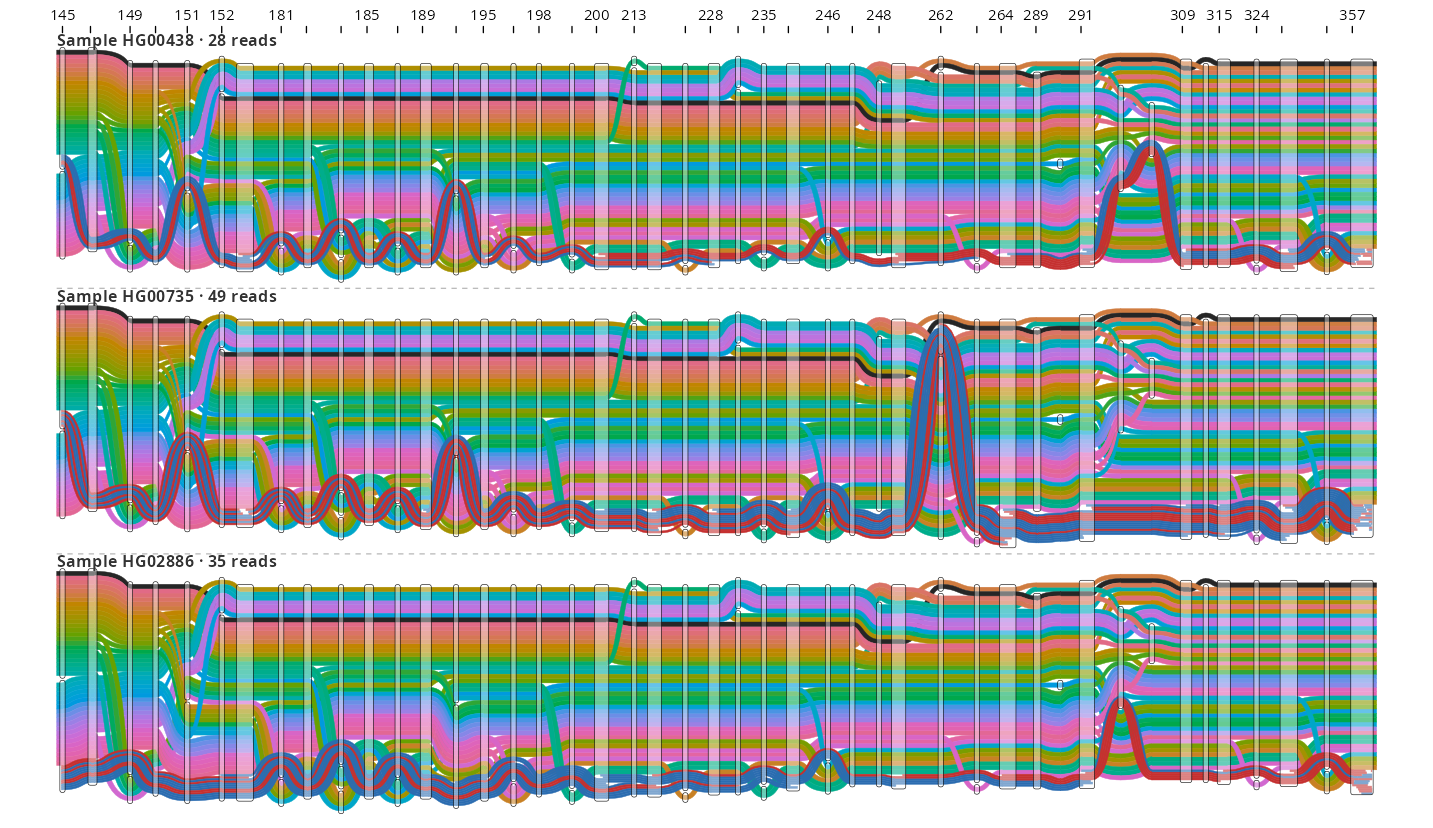
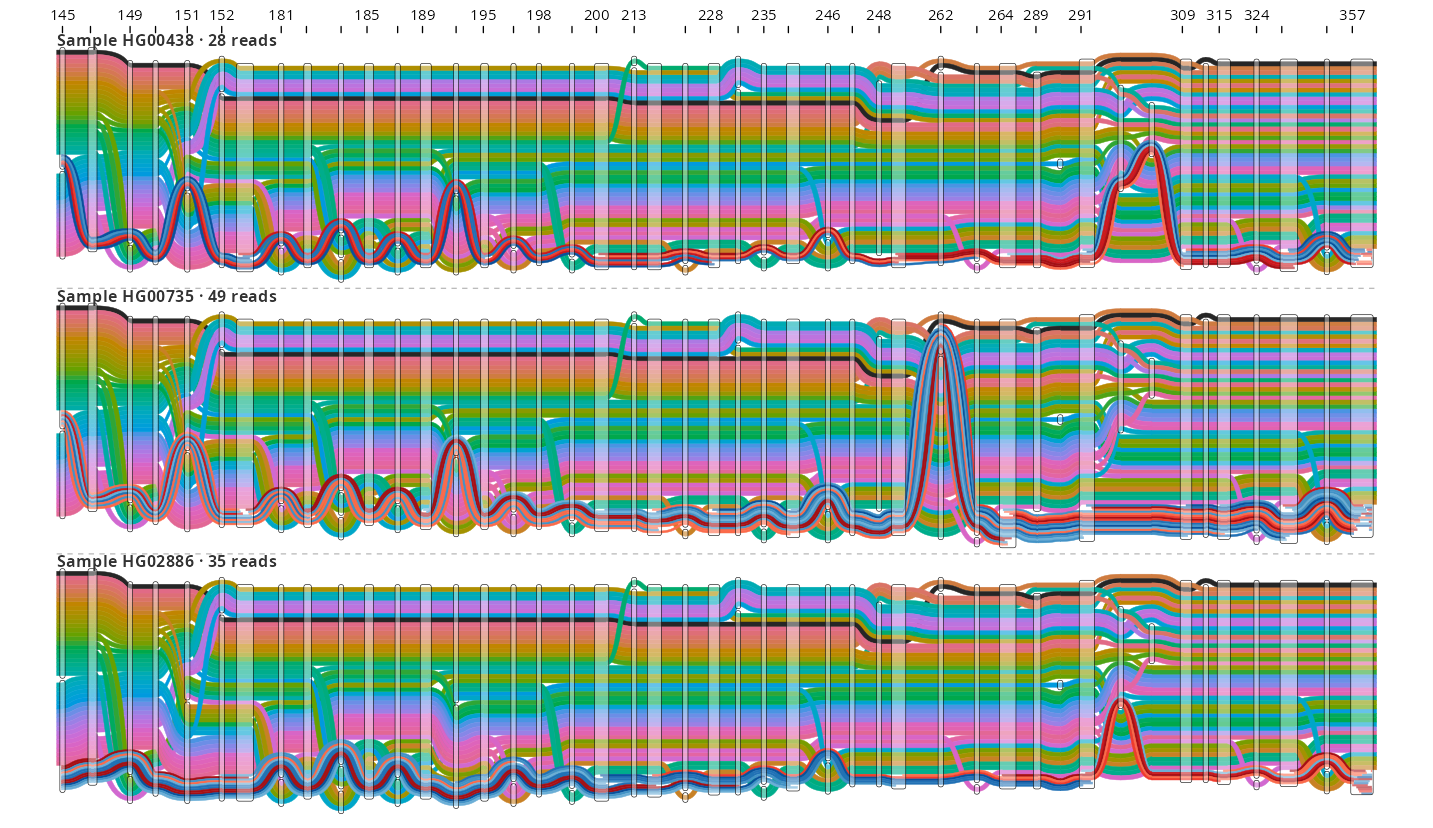
Bundle graph-walks 9.0.0 and tubemap-core 2.1.0: reads take tubemap-core's readColor, forward in reds and reverse in blues as JBrowse colours strands, shaded by read, in place of one hand-picked red and blue
@jbrowse/graph-walks 8.0.2 -> 9.0.0
@jbrowse/tubemap-core 2.0.1 -> 2.1.0

The layout returns each read's colour in its tracks table, so the bundle is
its one source. The three README figures with reads are redrawn on the
laptop; the hosted walk-file figures draw the same under 9.0.0 as under 8.0.2.

diff --git a/inst/js/tubemap-core.js b/inst/js/tubemap-core.js
@@ -1,5 +1,5 @@
 /*
- * @jbrowse/tubemap-core 2.0.1, bundled by tools/bridge.js
+ * @jbrowse/tubemap-core 2.1.0, bundled by tools/bridge.js
  *
  * MIT License
  *
@@ -161,7 +161,7 @@
     };
   }
 
-  // node_modules/.pnpm/@jbrowse+graph-walks@8.0.2/node_modules/@jbrowse/graph-walks/esm/util.js
+  // node_modules/.pnpm/@jbrowse+graph-walks@9.0.0/node_modules/@jbrowse/graph-walks/esm/util.js
   var RegionTooLargeError = class extends Error {
     constructor(message, limit, windowBp, fitsBp, overBytes) {
       super(message);
@@ -201,7 +201,7 @@
     return mb >= 1 ? `${mb.toLocaleString("en-US")}Mbp` : bp >= 1e3 ? `${precise(bp / 1e3).toLocaleString("en-US")}Kbp` : `${Math.floor(bp)}bp`;
   }
 
-  // node_modules/.pnpm/@jbrowse+graph-walks@8.0.2/node_modules/@jbrowse/graph-walks/esm/walkChunk.js
+  // node_modules/.pnpm/@jbrowse+graph-walks@9.0.0/node_modules/@jbrowse/graph-walks/esm/walkChunk.js
   var NONE = -1;
   var idOf = (handle) => (handle - (handle & 1)) / 2;
   var ID_LIMIT = 2 ** 31;
@@ -1192,7 +1192,7 @@
     return nodes;
   }
 
-  // node_modules/.pnpm/@jbrowse+graph-walks@8.0.2/node_modules/@jbrowse/graph-walks/esm/walkDeparture.js
+  // node_modules/.pnpm/@jbrowse+graph-walks@9.0.0/node_modules/@jbrowse/graph-walks/esm/walkDeparture.js
   var ATTACH_BP = 65536;
   function squeezer(holes, refName) {
     const spans = holes.filter((h) => h.refName === refName).sort((a, b) => a.start - b.start);
@@ -1269,7 +1269,7 @@
     });
   }
 
-  // node_modules/.pnpm/@jbrowse+graph-walks@8.0.2/node_modules/@jbrowse/graph-walks/esm/walkGaps.js
+  // node_modules/.pnpm/@jbrowse+graph-walks@9.0.0/node_modules/@jbrowse/graph-walks/esm/walkGaps.js
   var GAP_KINDS = ["steps", "read", "own", "unread"];
   function groupByName(items, refName) {
     const out = /* @__PURE__ */ new Map();
@@ -1566,7 +1566,7 @@
     return gaps;
   }
 
-  // node_modules/.pnpm/@jbrowse+graph-walks@8.0.2/node_modules/@jbrowse/graph-walks/esm/walkRows.js
+  // node_modules/.pnpm/@jbrowse+graph-walks@9.0.0/node_modules/@jbrowse/graph-walks/esm/walkRows.js
   var isPlaceholder = (id) => id < 0;
   function integerTag(line, tag) {
     const match = new RegExp(`(?:^|\\t)${tag}:i:(\\d+)`).exec(line);
@@ -2932,7 +2932,7 @@
     }
   };
 
-  // node_modules/.pnpm/@jbrowse+graph-walks@8.0.2/node_modules/@jbrowse/graph-walks/esm/refNames.js
+  // node_modules/.pnpm/@jbrowse+graph-walks@9.0.0/node_modules/@jbrowse/graph-walks/esm/refNames.js
   function qualifiedKey(assemblyName, refName) {
     return `${assemblyName}	${refName}`;
   }
@@ -2976,7 +2976,7 @@
     return held === null || held === void 0 ? void 0 : held[0];
   }
 
-  // node_modules/.pnpm/@jbrowse+graph-walks@8.0.2/node_modules/@jbrowse/graph-walks/esm/tabixSource.js
+  // node_modules/.pnpm/@jbrowse+graph-walks@9.0.0/node_modules/@jbrowse/graph-walks/esm/tabixSource.js
   function checkRange(refName, start, end) {
     if (!Number.isFinite(start) || !Number.isFinite(end)) {
       throw new Error(`${refName}:${start}-${end} is not a finite range to query the graph's index for`);
@@ -5769,7 +5769,7 @@
     }
   }
 
-  // node_modules/.pnpm/@jbrowse+graph-walks@8.0.2/node_modules/@jbrowse/graph-walks/esm/walkFile.js
+  // node_modules/.pnpm/@jbrowse+graph-walks@9.0.0/node_modules/@jbrowse/graph-walks/esm/walkFile.js
   var WALK_FORMAT = 8;
   var WalkFormatError = class extends Error {
     constructor() {
@@ -6071,7 +6071,7 @@
     }
   };
 
-  // node_modules/.pnpm/@jbrowse+graph-walks@8.0.2/node_modules/@jbrowse/graph-walks/esm/walkCounts.js
+  // node_modules/.pnpm/@jbrowse+graph-walks@9.0.0/node_modules/@jbrowse/graph-walks/esm/walkCounts.js
   var COUNT_REASONS = Object.freeze({
     unloaded: 1,
     unattached: 2,
@@ -6602,7 +6602,7 @@
     }
   };
 
-  // node_modules/.pnpm/@jbrowse+graph-walks@8.0.2/node_modules/@jbrowse/graph-walks/esm/walkReader.js
+  // node_modules/.pnpm/@jbrowse+graph-walks@9.0.0/node_modules/@jbrowse/graph-walks/esm/walkReader.js
   var READ_STEPS_PER_KEPT = 8;
   var WALK_CONTEXT = 1e3;
   var DETAIL_READS = 16;
@@ -7644,7 +7644,7 @@
     };
   }
 
-  // node_modules/.pnpm/@jbrowse+tubemap-core@2.0.1/node_modules/@jbrowse/tubemap-core/esm/groupBy.js
+  // node_modules/.pnpm/@jbrowse+tubemap-core@2.1.0/node_modules/@jbrowse/tubemap-core/esm/groupBy.js
   function groupBy(items, key) {
     const groups = /* @__PURE__ */ new Map();
     for (const item of items) {
@@ -7659,7 +7659,7 @@
     return groups;
   }
 
-  // node_modules/.pnpm/@jbrowse+tubemap-core@2.0.1/node_modules/@jbrowse/tubemap-core/esm/panSN.js
+  // node_modules/.pnpm/@jbrowse+tubemap-core@2.1.0/node_modules/@jbrowse/tubemap-core/esm/panSN.js
   var NOT_SAMPLES = /* @__PURE__ */ new Set(["_gbwt_ref", "unknown"]);
   function parsePanSN(name) {
     const [sample, haplotype, contig] = name?.split("#") ?? [];
@@ -7669,7 +7669,7 @@
     return { sample, haplotype: Number(haplotype), contig };
   }
 
-  // node_modules/.pnpm/@jbrowse+tubemap-core@2.0.1/node_modules/@jbrowse/tubemap-core/esm/layout.js
+  // node_modules/.pnpm/@jbrowse+tubemap-core@2.1.0/node_modules/@jbrowse/tubemap-core/esm/layout.js
   var READ_FACET_FIELDS = ["read_group", "sample_name"];
   var FACET_FIELDS = [...READ_FACET_FIELDS, "haplotype_sample"];
   var DEFAULT_CHAR_WIDTH = 8.401;
@@ -9518,7 +9518,7 @@
     return successor !== 0 && soleNeighbor(pred, successor) !== 0;
   }
 
-  // node_modules/.pnpm/@jbrowse+tubemap-core@2.0.1/node_modules/@jbrowse/tubemap-core/esm/geometry.js
+  // node_modules/.pnpm/@jbrowse+tubemap-core@2.1.0/node_modules/@jbrowse/tubemap-core/esm/geometry.js
   function compareCurvesByXYStartValue(a, b) {
     return b.xStart - a.xStart || a.yStart - b.yStart;
   }
@@ -9674,7 +9674,7 @@
     return d;
   }
 
-  // node_modules/.pnpm/@jbrowse+tubemap-core@2.0.1/node_modules/@jbrowse/tubemap-core/esm/mismatches.js
+  // node_modules/.pnpm/@jbrowse+tubemap-core@2.1.0/node_modules/@jbrowse/tubemap-core/esm/mismatches.js
   function readMismatches(layout) {
     const { nodes, nodeMap } = layout;
     const out = [];
@@ -9719,6 +9719,24 @@
       });
     }
     return out;
+  }
+
+  // node_modules/.pnpm/@jbrowse+tubemap-core@2.1.0/node_modules/@jbrowse/tubemap-core/esm/readColors.js
+  var FORWARD_READ_COLORS = Object.freeze([
+    "#fb6a4a",
+    "#ef3b2c",
+    "#cb181d",
+    "#a50f15"
+  ]);
+  var REVERSE_READ_COLORS = Object.freeze([
+    "#6baed6",
+    "#4292c6",
+    "#2171b5",
+    "#08519c"
+  ]);
+  function readColor(read) {
+    const colors = read.is_reverse ? REVERSE_READ_COLORS : FORWARD_READ_COLORS;
+    return colors[read.id % colors.length];
   }
 
   // tools/bridge.js
@@ -9843,7 +9861,8 @@
       "sample_name",
       "read_group",
       "band_count",
-      "band_label"
+      "band_label",
+      "read_color"
     ]);
     const nodeTable = columns([
       "panel",
@@ -9903,7 +9922,8 @@
           sample_name: t.sample_name,
           read_group: t.read_group,
           band_count: band?.count,
-          band_label: band?.label
+          band_label: band?.label,
+          read_color: t.type === "read" ? readColor(t) : void 0
         });
       }
       layout.nodes.forEach((n) => {

diff --git a/tools/bridge.js b/tools/bridge.js
@@ -14,6 +14,7 @@ import {
   nodeOutlinePath,
   nodePixelCoordinatesInX,
   placeFacets,
+  readColor,
   readMismatches,
 } from '@jbrowse/tubemap-core'
 
@@ -159,6 +160,7 @@ globalThis.tubemapLayout = function (requestJson) {
     'read_group',
     'band_count',
     'band_label',
+    'read_color',
   ])
   const nodeTable = columns([
     'panel',
@@ -220,6 +222,7 @@ globalThis.tubemapLayout = function (requestJson) {
         read_group: t.read_group,
         band_count: band?.count,
         band_label: band?.label,
+        read_color: t.type === 'read' ? readColor(t) : undefined,
       })
     }
     layout.nodes.forEach(n => {

diff --git a/README.md b/README.md
@@ -177,8 +177,9 @@ scale, and the haplotypes keep their default colours.
 ### Reads
 
 Reads come with the graph in sequenceTubeMap's extracted form, as in the `brca1`
-and `hprc-chrM` examples. `autoplot()` colours them by strand, fades them by
-mapping quality, and marks their substitutions, deletions and insertions.
+and `hprc-chrM` examples. `autoplot()` colours forward reads red and reverse
+reads blue, as JBrowse's alignments track does, fades them by mapping quality,
+and marks their substitutions, deletions and insertions.
 `xlim` and `ylim` zoom in by layout pixel:
 
 ```r
